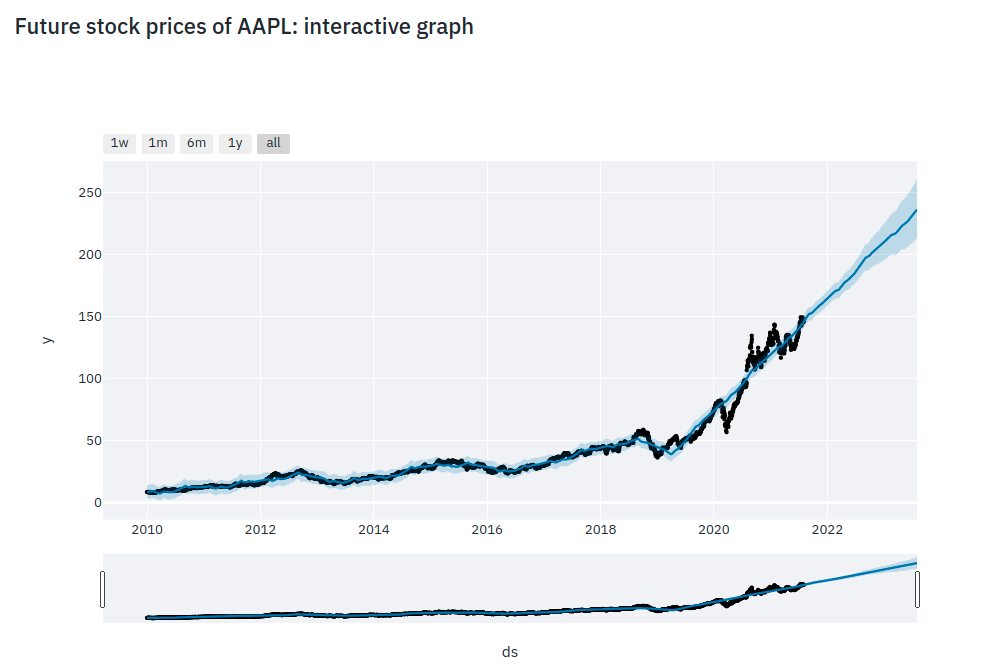
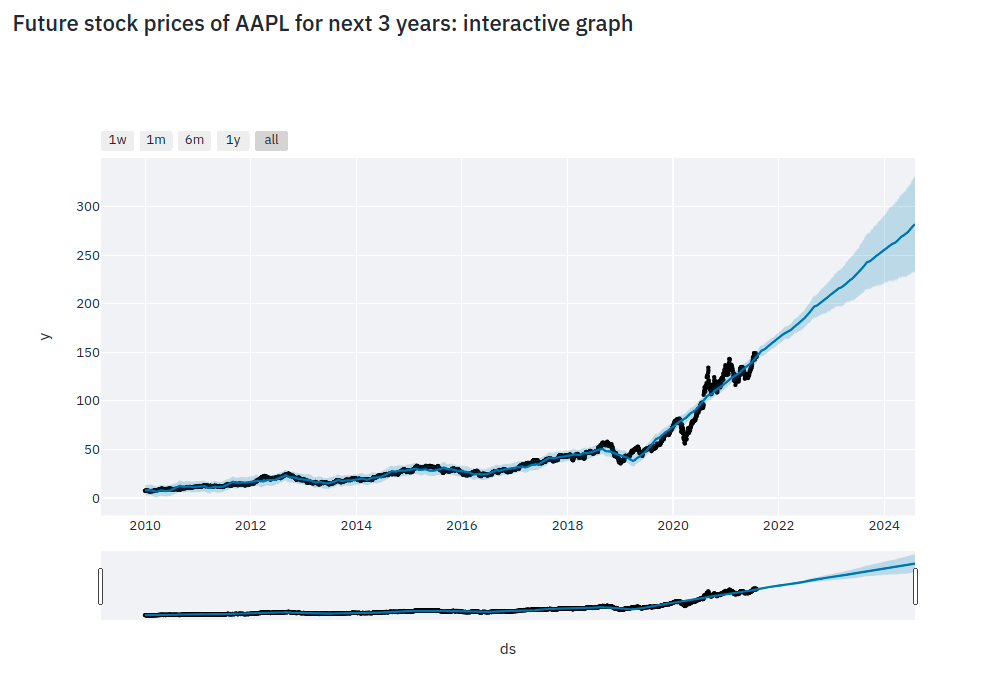
update readme

diff --git a/stock_predictor.py b/stock_predictor.py
@@ -67,10 +67,10 @@ forecast=m.predict(future)
 
 forecast_state.text("fitting the prophet model... done!")
 
-st.subheader(f"Future stock prices of {selected_stock}")
+st.subheader(f"Future stock prices of {selected_stock} for next {n_years} years")
 st.write(forecast)
 
-st.subheader(f'Future stock prices of {selected_stock}: interactive graph')
+st.subheader(f'Future stock prices of {selected_stock} for next {n_years} years: interactive graph')
 fig1=plot_plotly(m,forecast)
 st.plotly_chart(fig1)
 

diff --git a/README.md b/README.md
@@ -1,10 +1,10 @@
-# Football analytics web app
+# Heroku stock predictor app
 
 
 ![Project Image](./Images/image_1.png)
-![Project Image](./Images/image_2.png) 
+
 ![Project Image](./Images/image_3.png)
-![Project Image](./Images/image_4.png)
+
 
 > Analysing event data of sample football games
 ---
@@ -63,7 +63,7 @@ streamlit run stock_predictor.py
 - [Prophet](https://facebook.github.io/prophet/)
 - [Predicting Google’s Stock Prices Using Facebook’s Prophet](https://medium.com/mlearning-ai/predicting-googles-stock-prices-using-facebook-s-prophet-4829c83a8590)
 
-[Back To The Top](#football-analytics-web-app)
+[Back To The Top](#heroku-stock-predictor-app)
 
 ---
 ## Author Info
@@ -71,7 +71,7 @@ streamlit run stock_predictor.py
 - Twitter - [@hasnat_omi](https://twitter.com/hasnat_omi)
 - Email - [hasnatabdullah79@gmail.com](hasnatabdullah79@gmail.com)
 
-[Back To The Top](#football-analytics-web-app)
+[Back To The Top](#heroku-stock-predictor-app)
 
 
 
